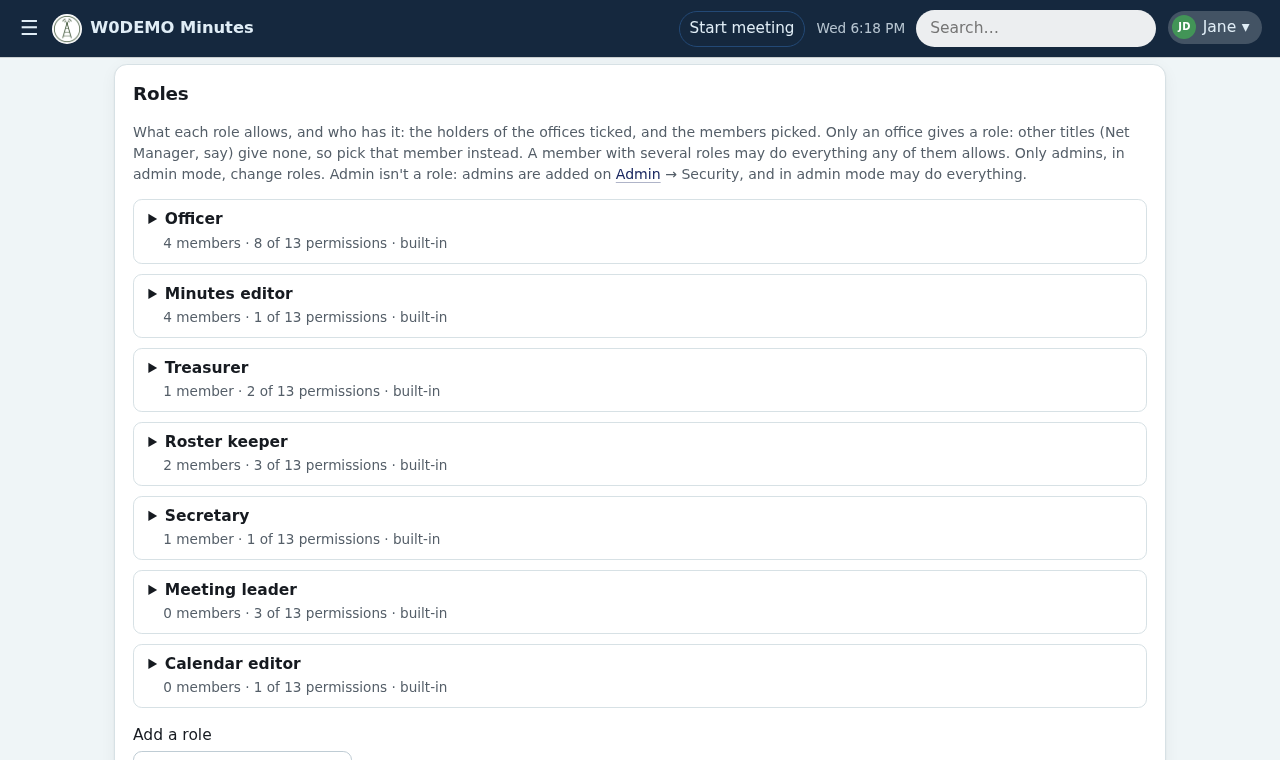
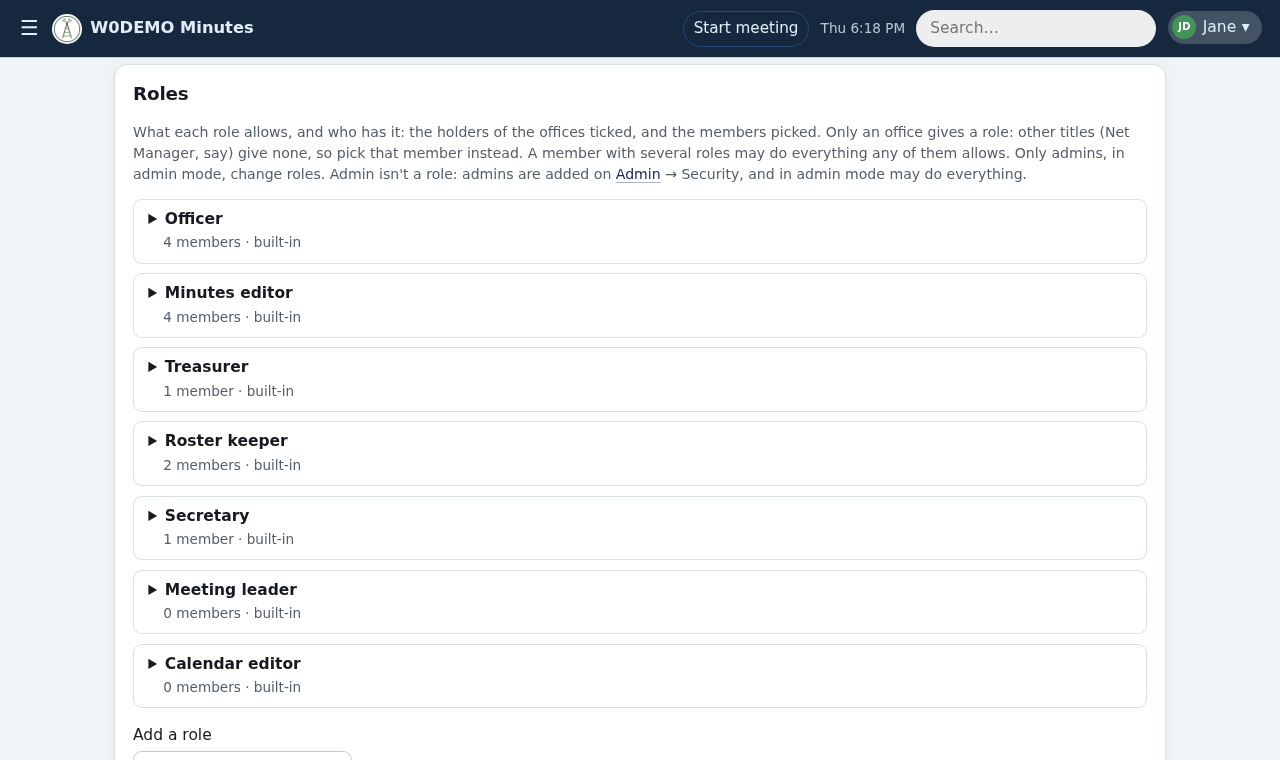
Plainer wording and small fixes from the 1.1 UI review
Correct page: clearer Why label, notice hint under its checkbox. Site Roles: Save offices / Save roles, short intro with the rest under More about roles, no permission count. Recovery page: back link, full-width motion field. Recovery emails: safety-net sentence in the first, 'unless an admin objects'. Updates: automatic-updates paragraph as a list.

Claude-Session: https://claude.ai/code/session_015owk5UF74NRA1BxZqk8Tag

diff --git a/src/club_minutes/templates/site.html b/src/club_minutes/templates/site.html
@@ -59,7 +59,9 @@
 </form>
 {% if set_here|select('in', ['sections', 'invite_after_visits', 'remind_days_before'])|list %}<form method="post" action="/admin/site/agenda" data-confirm="Go back to club.yaml's agenda and reminders?"><input type="hidden" name="back" value="1"><button class="btn small ghost">Back to club.yaml</button></form>{% endif %}
 {% elif tab == 'roles' %}
-<p class="muted">Roles say what a member may do in the app; most come from the offices a member holds. Below: the club's offices, then each role, what it allows and who has it. Who holds each office is on the <a href="/offices">Offices</a> page. Each change is in the admin log and wins over club.yaml on the server.</p>
+<p class="muted">A role is a set of things a member may do. Officers get theirs from their office.</p>
+<details class="muted"><summary>More about roles</summary>
+<p>Most roles come from the offices a member holds. Below: the club's offices, then each role, what it allows and who has it. Who holds each office is on the <a href="/offices">Offices</a> page. Each change is in the admin log and wins over club.yaml on the server.</p></details>
 <form method="post" action="/admin/site/offices" class="profile siteoffices">
 <input type="hidden" name="rows" value="{{ office_rows|length }}">
 <div class="card sitesec"><h2>Offices {{ origin('.offices') }}</h2>
@@ -76,7 +78,7 @@
 <template id="t-office">{{ office_row('__i__', {'title': '', 'officer': False, 'seats': 1, 'held': False}) }}</template>
 <p><button type="button" class="btn small" data-add="t-office" data-next="{{ office_rows|length }}" hidden>+ Add an office</button></p>
 <p class="hint">Clear an office's name to remove it when you save. Greyed names are held: hand them over on the Offices page before renaming them. What each office's holders may do is under Roles, below.</p>
-<p class="row"><button class="btn" aria-label="Save the offices">Save</button> <button type="button" class="btn ghost" data-discard hidden>Discard changes</button></p>
+<p class="row"><button class="btn">Save offices</button> <button type="button" class="btn ghost" data-discard hidden>Discard changes</button></p>
 </div>
 </form>
 {% if here_keys|select('in', ['.offices', '.roster_keepers'])|list %}<form method="post" action="/admin/site/offices" data-confirm="Go back to club.yaml's offices?"><input type="hidden" name="back" value="1"><button class="btn small ghost">Back to club.yaml</button></form>{% endif %}
@@ -84,7 +86,7 @@
 <p class="hint">What each role allows, and who has it: the holders of the offices ticked, and the members picked. Only an office gives a role: other titles (Net Manager, say) give none, so pick that member instead. A member with several roles may do everything any of them allows. Only admins, in admin mode, change roles. Admin isn't a role: admins are added on <a href="/admin">Admin</a> → Security, and in admin mode may do everything.</p>
 <form method="post" action="/admin/site/roles" class="profile"><input type="hidden" name="stamp" value="{{ roles_stamp }}">
 <div class="rolelist">{% for r in role_rows %}{% set k = r.key %}
-<details class="role"><summary><b>{{ r.name }}</b><br><span class="muted small">{{ r.who|length }} {{ 'member' if r.who|length == 1 else 'members' }} · {{ r.perms|length }} of {{ permissions|length }} permissions{{ ' · built-in' if r.builtin }}{{ ', changed' if r.edited and r.builtin }}</span></summary>
+<details class="role"><summary><b>{{ r.name }}</b><br><span class="muted small">{{ r.who|length }} {{ 'member' if r.who|length == 1 else 'members' }} {{ ' · built-in' if r.builtin }}{{ ', changed' if r.edited and r.builtin }}</span></summary>
   <input type="hidden" name="key" value="{{ k }}">
   <label class="small">Name <input name="name.{{ k }}" value="{{ r.name }}" maxlength="40"></label>
   <fieldset><legend class="small"><b>Allows</b></legend>
@@ -104,7 +106,7 @@
 </details>{% endfor %}</div>
 <p class="row"><label>Add a role <input name="new" maxlength="40" placeholder="e.g. Net manager"></label></p>
 <p class="hint">Recording money always comes with looking at the Treasurer pages. A meeting's own leader and recorder may always correct its minutes. The roster emails are new members, roster changes and the chow list; a new email for someone else waits until its owner confirms it. Every permission needs at least one role: a save that would leave one with none is refused.</p>
-<p class="row"><button class="btn" aria-label="Save the roles">Save</button> <button type="button" class="btn ghost" data-discard hidden>Discard changes</button></p>
+<p class="row"><button class="btn">Save roles</button> <button type="button" class="btn ghost" data-discard hidden>Discard changes</button></p>
 </form>
 {% for r in role_rows if r.builtin and r.edited %}<form id="roleback-{{ r.key }}" method="post" action="/admin/site/roles" data-confirm="Put {{ r.name }} back as it ships (its name, what it allows and its offices)? The members picked for it stay."><input type="hidden" name="back" value="{{ r.key }}"></form>{% endfor %}
 </div>

diff --git a/src/club_minutes/templates/correct.html b/src/club_minutes/templates/correct.html
@@ -46,12 +46,12 @@
   </details>
   {% endfor %}
 
-  <label>Why <input name="reason" value="{{ v('reason', '') }}" required maxlength="{{ reason_max }}" placeholder="e.g. Corrected a misspelled name">
+  <label>Why are you correcting these minutes? <input name="reason" value="{{ v('reason', '') }}" required maxlength="{{ reason_max }}" placeholder="e.g. Corrected a misspelled name">
     <span class="hint">A line: members see it with the minutes.</span></label>
   <label class="check"><input type="checkbox" name="notice" value="1" {{ on('notice', true) }}> Send the corrected minutes to members</label>
+  <p class="hint">Members get an email saying what changed, with the PDF or a link, the same way they get the minutes. If you untick it, the footer says "no notice sent".</p>
   <label class="check"><input type="checkbox" name="private" value="1" {{ on('private', false) }}> This removes private details</label>
-  <p class="hint">Tick it when you're taking out something that shouldn't have been recorded (a health matter, a phone number): the email then shows no old words at all, and the version before stays visible only to those who can correct minutes. Removed lines are never quoted in the email either way.</p>
-  <p class="hint">With what changed, the same way they get the minutes (PDF or link). If you don't, the footer says "no notice sent".</p>
+  <p class="hint">Tick it when you're taking out something that shouldn't have been recorded (a health matter, a phone number): the email then shows no old words at all, and every earlier version stays visible only to those who can correct minutes. Removed lines are never quoted in the email either way.</p>
   <p><button class="btn">Preview the changes</button> <a class="btn ghost" href="/meetings/{{ m.slug }}">Cancel</a></p>
 </form>
 <script nonce="{{ csp_nonce }}">

diff --git a/src/club_minutes/templates/updates.html b/src/club_minutes/templates/updates.html
@@ -53,7 +53,13 @@ setInterval(() => fetch(location.pathname, {cache: "no-store"})
 
 <article class="card">
   <div class="card-text"><b>Automatic updates</b>: {{ 'on, nightly at ' ~ auto.hour ~ ':30' if auto.on else 'off' }}</div>
-  <p class="muted">When on, the server checks every night at the hour below for a newer release. The newest is installed, after a full backup, if no release since this one needs steps by hand (no backup, no update); if the app doesn't come back up, it goes back to the version it had and doesn't try that release again. Admins get an email either way, and one for a release that needs steps by hand.</p>
+  <p class="muted">When on, every night at the hour below the server checks for a newer release:</p>
+  <ul class="muted">
+    <li>The newest release is installed, after a full backup. No backup, no update.</li>
+    <li>If a release since this one needs steps by hand, it isn't installed, and admins get an email about it.</li>
+    <li>If the app doesn't come back up, the server goes back to the version it had and doesn't try that release again.</li>
+    <li>Admins get an email either way.</li>
+  </ul>
   <form method="post" action="/admin/updates/auto" class="inline">
     <label>At <select name="hour" aria-label="Hour">{% for h in range(24) %}<option value="{{ h }}" {{ 'selected' if h == auto.hour }}>{{ '%d:30' % h }}</option>{% endfor %}</select></label>
     {% if auto.on %}<button class="btn small" name="on" value="1">Save the time</button> <button class="btn small ghost" name="on" value="0">Turn off</button>

diff --git a/src/club_minutes/static/style.css b/src/club_minutes/static/style.css
@@ -228,7 +228,7 @@ a[target="_blank"]:not([class])::after { content: "\00a0↗"; content: "\00a0↗
 .callout.warning a, .callout.important a, .callout.caution a, .callout.warning code, .callout.caution code { color: inherit; }
 form.profile { max-width: 36rem; } main form.profile[action^="/admin/"] { max-width: none; }  /* Admin pages: the page's width, as Security and Updates */ form.profile > label { display: block; margin: .9rem 0; font-weight: 600; }
 form.profile input, form.profile textarea { display: block; margin-top: .25rem; font-weight: normal; }
-form.profile input[type=email], form.profile input[type=tel], form.profile input[type=url], form.profile textarea { width: 100%; }
+form.profile input[name=motion], form.profile input[type=email], form.profile input[type=tel], form.profile input[type=url], form.profile textarea { width: 100%; }
 form.profile input[type=checkbox] { display: inline-block; margin: 0 .3rem 0 0; }
 form.profile .hint { display: block; font-weight: normal; }
 form.profile fieldset { border: 1px solid var(--border); border-radius: var(--radius-sm); margin: 1rem 0; padding: .7rem 1rem; background: var(--surface); }

diff --git a/src/club_minutes/templates/recover.html b/src/club_minutes/templates/recover.html
@@ -1,4 +1,4 @@
-{% extends "base.html" %}{% block title %}Recover admin access{% endblock %}{% block body %}
+{% extends "base.html" %}{% block title %}Recover admin access{% endblock %}{% block crumb %}{{ back('/offices', 'Offices') }}{% endblock %}{% block body %}
 <h1>Recover admin access</h1>
 <p class="muted">For when the club can't reach its admins, or an admin is working against the club. The officers can make a member an admin, and can suspend admins:</p>
 <ol class="muted">

diff --git a/src/club_minutes/recovery.py b/src/club_minutes/recovery.py
@@ -26,6 +26,10 @@ LAPSE_DAYS = 30  # not approved and accepted by then: it ends by itself, so one 
 MOTION_MAX = 200
 
 
+SAFETY_NET = ("This is the club's safety net for when its website admins can't be reached. "
+              "You don't need to do anything.\n\n")
+
+
 @contextlib.contextmanager
 def locked():
     """One lock for who's an admin: recovery steps, the daily job completing one, Admins add/remove/lift and a new
@@ -111,7 +115,7 @@ def start(club: Club, by: str, nominee: str, suspend: list[str], motion: str, ur
     _save(r)
     what = f"{club.name(by)} started a recovery of admin access: {m.name} to become an admin" + (
         f", and {', '.join(club.name(a) for a in suspend)} suspended as admin" if suspend else "") + "."
-    _tell(club, "Recovering admin access", what, r, url)
+    _tell(club, "Recovering admin access", what, r, url, first=True)
     return r
 
 
@@ -213,15 +217,15 @@ def tick(club: Club, url: str, now: float | None = None) -> bool:
     return True
 
 
-def _tell(club: Club, subject: str, what: str, r: dict, url: str) -> None:
+def _tell(club: Club, subject: str, what: str, r: dict, url: str, first: bool = False) -> None:
     """Every active member (Jim, 2026-11-14: all of them, at every step), and the suspended admins."""
     st = state(club, r) if load() else None
     how = (f"\n\nApprovals: {st['have']} of the {st['need']} needed ({len(st['officers'])} officers)"
-           + (f"; it completes on {show_date(time.strftime('%Y-%m-%d', time.localtime(st['ready_at'])), 'document')} unless it changes"
+           + (f"; it completes on {show_date(time.strftime('%Y-%m-%d', time.localtime(st['ready_at'])), 'document')} unless an admin objects"
               if st["ready_at"] else "") + ("" if r.get("accepted") else f"; waiting for {club.name(r['nominee'])} to accept") + "."
            if st else "")
     motion = f"\n\nThe board's motion: {r['motion']}" if r.get("motion") else ""
     to = sorted({m.email for m in club.members.values() if m.email and m.status.lower() not in ("inactive", "silent key")
                  and (m.status.lower() == "active" or m.id in r["suspend"])})
     auth.send_email(to, f"{club.label}: {subject}", f"{what}{how}{motion}\n\nWhere it stands, and who has approved: "
-                    f"{url}/recover\n\n73,\n{branding.name(club)}", only_to=club.email_only_to())
+                    f"{url}/recover\n\n{SAFETY_NET if first else ''}73,\n{branding.name(club)}", only_to=club.email_only_to())

diff --git a/tests/test_recovery.py b/tests/test_recovery.py
@@ -37,6 +37,7 @@ def test_majority_acceptance_and_the_wait(club):
         recovery.start(club, "n0call", "n0call", [], "", "https://x")
     r = recovery.start(club, "pres", "n0call", ["adm"], "Approved at the board meeting of Nov 1", "https://x")
     assert len(club.sent[-1][0]) == 7 and "Pat Doe to become an admin, and Ann Doe suspended" in club.sent[-1][2]  # everyone
+    assert "safety net" in club.sent[-1][2]
     with pytest.raises(ValueError, match="already under way"):
         recovery.start(club, "vp", "tru", [], "", "https://x")
     with pytest.raises(ValueError, match="Only an officer"):
